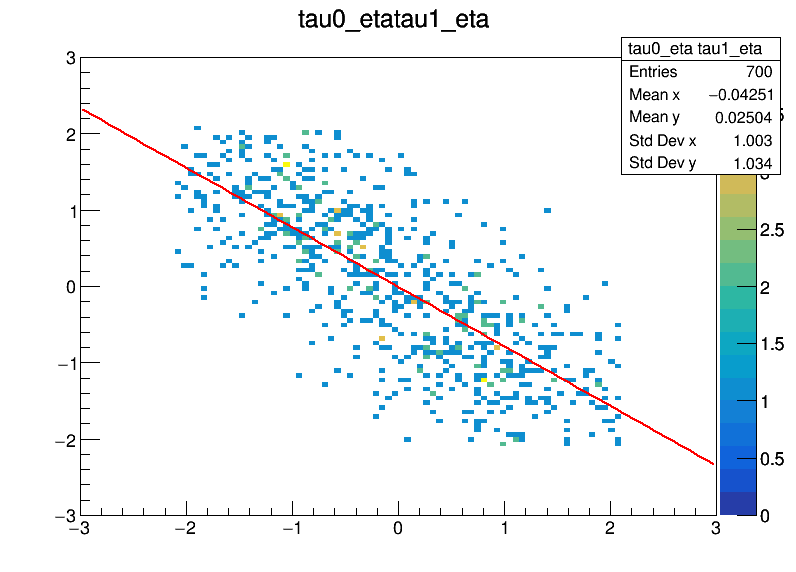
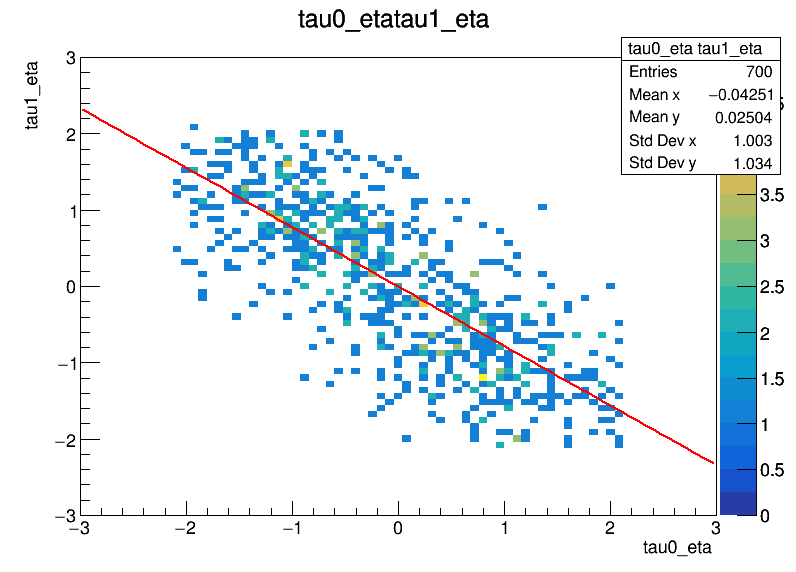
add plot axis labels

diff --git a/plots/plots2.py b/plots/plots2.py
@@ -33,12 +33,12 @@ hist_sist_mass = ROOT.TH1F("sist_mass", "Invariant Mass of Tau Pair; Mass [GeV];
 hist_sist_rap = ROOT.TH1F("sist_rap", "Rapidity of Tau Pair; Rapidity; Events", 100, -3, 3)
 hist_delta_phi = ROOT.TH1F("delta_phi", "Delta Phi Between Tau+ and Tau-; #Delta#phi; Events", 500, 3.02, 3.18)
 hist_xi = ROOT.TH1F("xi", "Proton Energy Loss; #xi; Events", 500, 0, 0.3)
-hist_tau0_phi = ROOT.TH1F("tau0_phi", "Tau0 Phi",100, -4, 4)
-hist_tau1_phi = ROOT.TH1F("tau1_phi", "Tau1 Phi",100, -4, 4)
-hist_ttpair_inv_mass=ROOT.TH1F("invariant_mass_tt_pair", "Tau pair invariant mass",100,0, 1000 )
-hist_invariant_mass=ROOT.TH1F("p_invariant_mass", "Proton invariant mass",100, 300, 2000 )
-hist_p_rapidity=ROOT.TH1F("p_rapidity", "Proton rapidity",100,-3,3 )
-hist_tt_rapidity=ROOT.TH1F("tt_rapidity", "Tau pair rapidity",100,-3,3)
+hist_tau0_phi = ROOT.TH1F("tau0_phi", "Tau0 Phi; #phi; Events",100, -4, 4)
+hist_tau1_phi = ROOT.TH1F("tau1_phi", "Tau1 Phi; #phi; Events",100, -4, 4)
+hist_ttpair_inv_mass=ROOT.TH1F("invariant_mass_tt_pair", "Tau pair invariant mass; #M_X; Events",100,0, 1000 )
+hist_invariant_mass=ROOT.TH1F("p_invariant_mass", "Proton invariant mass; #M_X; Events",100, 300, 2000 )
+hist_p_rapidity=ROOT.TH1F("p_rapidity", "Proton rapidity; #Y_X; Events",100,-3,3 )
+hist_tt_rapidity=ROOT.TH1F("tt_rapidity", "Tau pair rapidity; #Y_X; Events",100,-3,3)
 hist_diff_mass=ROOT.TH1F("p-t mass","p-t mass ",100,-100,2000)
 hist_diff_rapidity=ROOT.TH1F("p-t rapidity","p-t rapidity",100,-10,10)
 

diff --git a/plots/corrs_2.py b/plots/corrs_2.py
@@ -14,8 +14,8 @@ import seaborn as sns
 # filename="2018Data_passPreselection_passSPlotCuts_mergeSweights.root"
 
 dir="/eos/user/m/mblancco/samples_2018_tautau/fase0_2/"
-filename="GammaGammaTauTau_SignalMC_SM_18UL_23k_NANOAODSIM_fase0_with_xi_qcdcode.root"
 filename="ttJetscode_GammaGammaTauTau_SignalMC_SM_18UL_23k_NANOAODSIM_fase0_with_xi_and_deltaphi.root"
+#filename="ttJetscode_GammaGammaTauTau_SignalMC_SM_18UL_23k_NANOAODSIM_fase0_with_xi_and_deltaphi.root"
 #ilename2="MC_JPSI_2018_preBDT_Nov21.root"
 
 data = uproot.open(dir+filename)
@@ -57,7 +57,7 @@ def plot_heatmap(data_type):
     correlation_matrix = combined_signal_df.corr()
 
     # Create a heatmap using seaborn
-    plt.figure(figsize=(10, 8))  # Set the figure size (optional)
+    plt.figure(figsize=(15, 15))  # Set the figure size (optional)
     color = plt.get_cmap('RdYlGn')   # default color
     color.set_bad('lightblue')  
     sns.heatmap(correlation_matrix, annot=True, fmt=".2f",cmap=color, center=0)

diff --git a/plots/comparisons_new.py b/plots/comparisons_new.py
@@ -37,6 +37,8 @@ def creat_scatter(v1,v2,tree,nbinsx,minx,maxx,nbinsy,miny,maxy):
     c1 = ROOT.TCanvas("canvas", "Scatter Plots", 800, 600)
     hist.Draw()
     hist.Draw("colz")
+    hist.SetXTitle(v1)
+    hist.SetYTitle(v2)
     c1.SaveAs("/eos/user/m/mblancco/tau_analysis/plots/scatter_plots/"+"scatter_"+v1+"_"+v2+".png")
 
 #creat_scatter("tau0_pt","tau1_pt",tree,100,0,900,100,0,900)
@@ -52,9 +54,13 @@ for event in tree: #diff mass vs diff rapidty
 
     hist2.Fill(p_mass-t_mass,p_rapidity-tt_rapidity)
 
+
+#hist2.Fit("pol1")
 c2 = ROOT.TCanvas("canvas", "Scatter Plots", 800, 600)
 hist2.Draw()
 hist2.Draw("colz")
+hist2.SetXTitle("Proton-TauPair Inv Mass")
+hist2.SetYTitle("Proton-TauPair Rapidity")
 c2.SaveAs("/eos/user/m/mblancco/tau_analysis/plots/scatter_plots/"+"diffs_p_tt.png")
     
 
